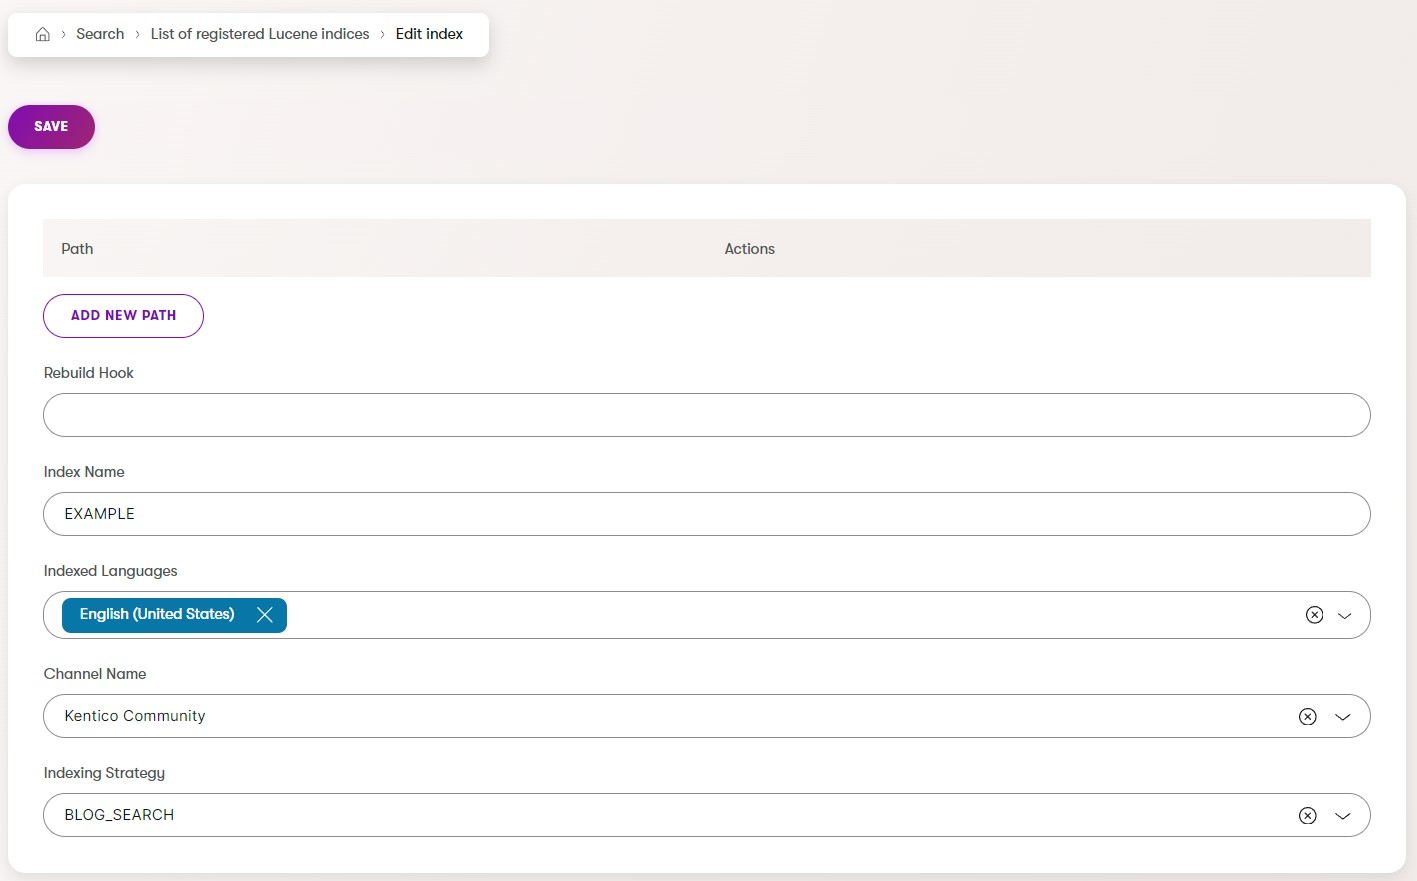
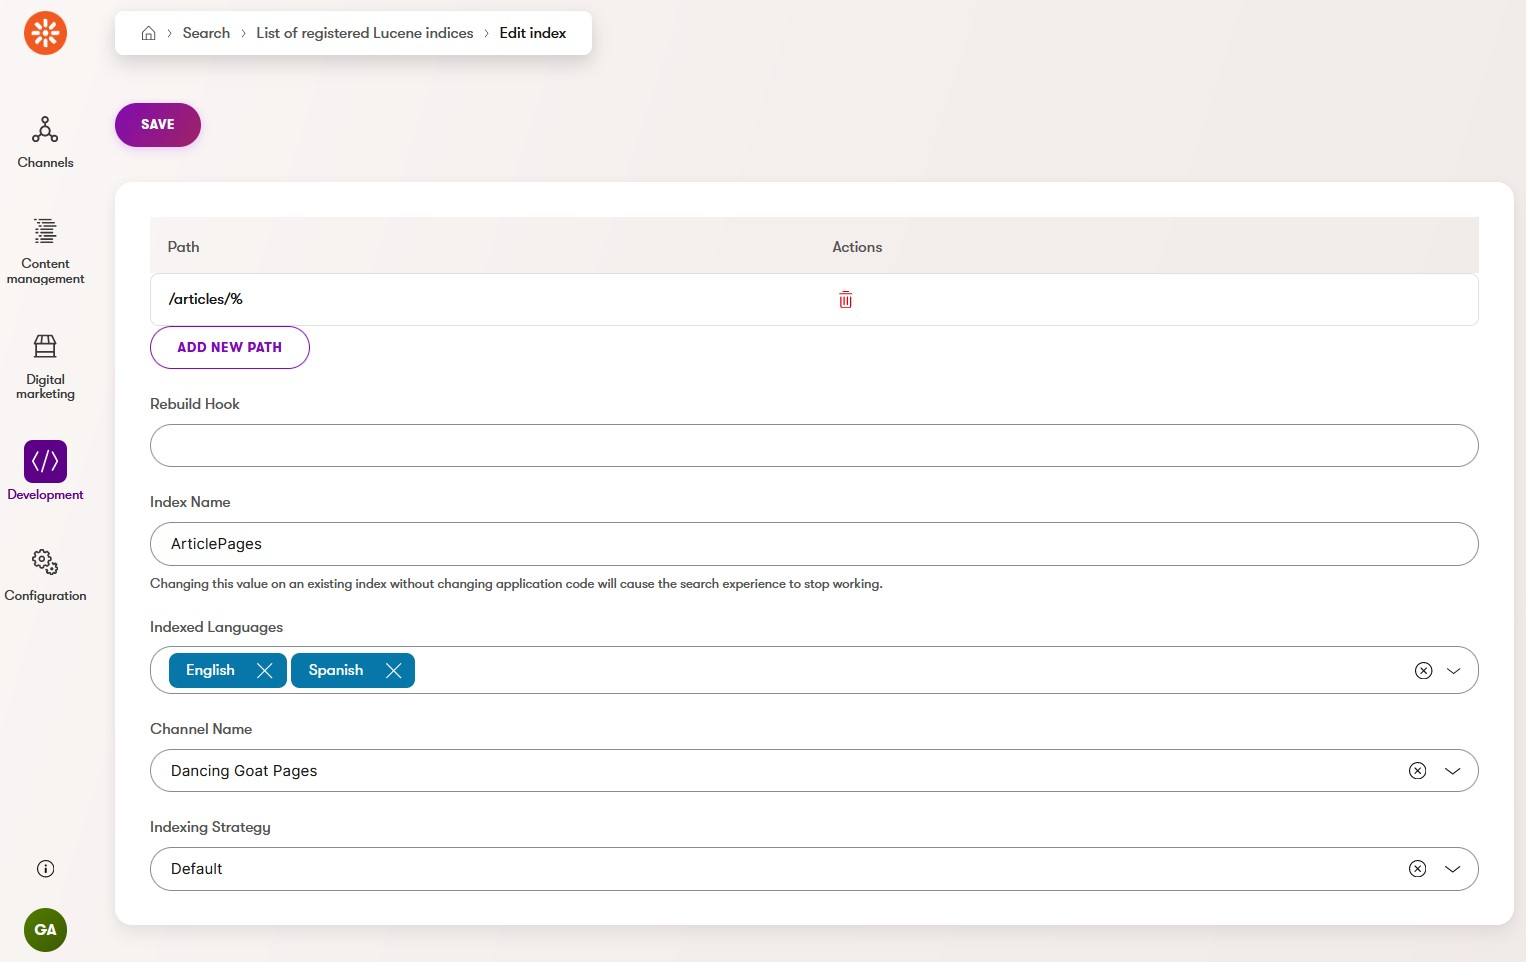
docs(images): update w/ latest admin UI

diff --git a/README.md b/README.md
@@ -7,6 +7,12 @@
 Xperience by Kentico search integration with the latest 4.8 beta version of [Lucene.NET](https://github.com/apache/lucenenet),
 enabling auto-indexing of content in Xperience based on application-local, code-defined search indexes and search results retrieval.
 
+## Screenshots
+
+![Index listing](https://raw.githubusercontent.com/Kentico/xperience-by-kentico-lucene/main/images/xperience-administration-search-index-list.jpg)
+
+![Index edit](https://raw.githubusercontent.com/Kentico/xperience-by-kentico-lucene/main/images/xperience-administration-search-index-edit-form.jpg)
+
 ## Library Version Matrix
 
 | Xperience Version   | Library Version |
